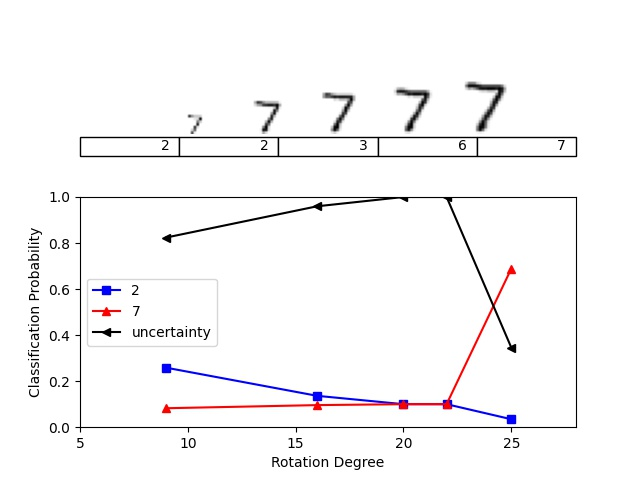
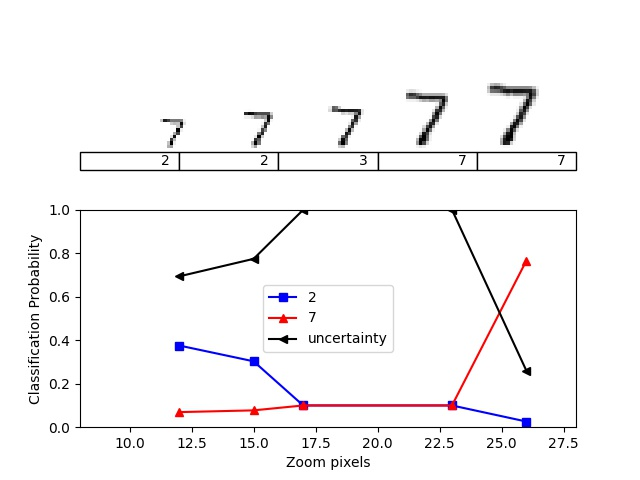
all digits analysis

diff --git a/test.py b/test.py
@@ -159,15 +159,6 @@ def rotating_image_classification(model, img, filename, uncertainty=False, thres
     #plt.savefig("./results/rotate_uncertatinty.jpg")
     plt.savefig(filename)
 
-def test_plt_saving():
-    #fig, ax = plt.subplots(nrows=1, ncols=1)
-    fig = plt.figure(figsize=[6.2, 5])
-    fig, axs = plt.subplots(3, gridspec_kw={"height_ratios": [4, 1, 12]})
-
-    axs[0].plot(np.linspace(0, 1), np.log(np.linspace(0,1)))
-    fig.tight_layout()
-    fig.savefig("./results/test.jpg")
-
 def zoom_image_classification(model, img, filename, uncertainty=False, threshold=0.2, device=None):
     if not device:
         device = get_device()
@@ -231,8 +222,8 @@ def zoom_image_classification(model, img, filename, uncertainty=False, threshold
     c = ["blue", "red", "brown", "purple", "cyan"]
     marker = ["s", "^", "o"]*2
     labels = labels.tolist()
-    fig = plt.figure(figsize=[5, 5])
-    fig, axs = plt.subplots(3, gridspec_kw={"height_ratios": [4, 1, 12]})
+    fig = plt.figure(figsize=[6, 5])
+    fig, axs = plt.subplots(3, gridspec_kw={"height_ratios": [5, 1, 12]})
 
     for i in range(len(labels)):
         axs[2].plot(ldeg, lp[:, i], marker=marker[i], c=c[i])
@@ -254,9 +245,9 @@ def zoom_image_classification(model, img, filename, uncertainty=False, threshold
     axs[1].axis("off")
 
     axs[2].legend(labels)
-    axs[2].set_xlim([5, 28])
+    axs[2].set_xlim([8, 28])
     axs[2].set_ylim([0, 1])
-    axs[2].set_xlabel("Rotation Degree")
+    axs[2].set_xlabel("Zoom pixels")
     axs[2].set_ylabel("Classification Probability")
     #fig.show()
     fig.savefig(filename)

diff --git a/data.py b/data.py
@@ -26,16 +26,15 @@ dataloaders = {
     "val": dataloader_val,
 }
 
-
-digit_zero, _ = data_val[7]
-digit_one, _ = data_val[8]
+digit_zero, _ = data_val[3]
+digit_one, _ = data_val[2]
 digit_two, _ = data_val[1]
-digit_three, _ = data_val[2]
-digit_four, _ = data_val[3]
-digit_five, _ = data_val[4]
-digit_six, _ = data_val[5]
-data_seven, _ = data_va[0]
-digit_eight, _ = data_val[6]
+digit_three, _ = data_val[18]
+digit_four, _ = data_val[6]
+digit_five, _ = data_val[8]
+digit_six, _ = data_val[21]
+digit_seven, _ = data_val[0]
+digit_eight, _ = data_val[110]
 digit_nine, _ = data_val[7]
 
 

diff --git a/main.py b/main.py
@@ -17,7 +17,7 @@ from data import dataloaders, digit_one
 from data import digit_zero, digit_one, digit_two, digit_three, digit_four, digit_five, digit_six, digit_seven, digit_eight, digit_nine
 from train import train_model
 from test import rotating_image_classification, test_single_image
-from test import zoom_image_classification, test_plt_saving
+from test import zoom_image_classification
 from losses import edl_mse_loss, edl_digamma_loss, edl_log_loss, relu_evidence
 from lenet import LeNet
 
